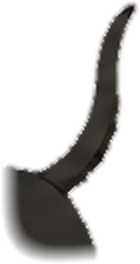
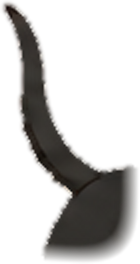
Sprite pack built by one script (tools/pups2/pack/build.py): clean muzzles, layers for right, left and 3/4 views, eyes and mouths, upscale, then the 3/4 mirror, so a rebuild can never lose the facing again
Claude-Session: https://claude.ai/code/session_01F11x81sfGg3qnfmPYFW4i1

diff --git a/tools/pups2/pack/srig.py b/tools/pups2/pack/srig.py
@@ -1,0 +1,145 @@
+"""Warp rig for the turnaround-sheet sprites: head, tail and legs get weight maps; a pose rotates each by its weight,
+so joints bend smoothly. Also a head swap for the expression faces."""
+import cv2, numpy as np, math
+S = '/home/user/Spread-Love-And-Acceptance/tools/pups2/ref/sheet/'
+PAD = 60
+
+def poly_w(shape, pts, feather):
+    m = np.zeros(shape[:2], np.uint8); cv2.fillPoly(m, [np.array(pts, np.int32)], 255)
+    return cv2.GaussianBlur(m.astype(np.float32) / 255, (0, 0), feather)
+
+class Sprite:
+    def __init__(self, name, parts, face=None, cutlegs=None):
+        im = cv2.imread(S + name + '.png', cv2.IMREAD_UNCHANGED)
+        self.img = cv2.copyMakeBorder(im, PAD, PAD, PAD, PAD, cv2.BORDER_CONSTANT, value=(0, 0, 0, 0)).astype(np.float32)
+        self.H, self.W = self.img.shape[:2]; self.base_h = im.shape[0]
+        self.w = {}; self.pv = {}
+        for p, (pts, pivot, feather) in parts.items():
+            self.w[p] = poly_w(self.img.shape, [(x + PAD, y + PAD) for x, y in pts], feather)
+            self.pv[p] = (pivot[0] + PAD, pivot[1] + PAD)
+        self.face = face   # (cx, cy, width) of the head on this body, for expression swaps
+        self.cutlegs = cutlegs   # (belly_y, {leg: (x0, x1, pivot_y)}) for side views: legs swing as cut layers
+        yy, xx = np.mgrid[0:self.H, 0:self.W].astype(np.float32); self.yy, self.xx = yy, xx
+    def pose(self, rot=None, shift=None):
+        rot = rot or {}; shift = shift or {}
+        sx, sy = self.xx.copy(), self.yy.copy()
+        for p in set(rot) | set(shift):
+            if p not in self.w: continue
+            w = self.w[p]; px, py = self.pv[p]; th = math.radians(rot.get(p, 0)) * w; dx, dy = shift.get(p, (0, 0))
+            cx, cy = sx - px - dx * w, sy - py - dy * w; c, s_ = np.cos(th), np.sin(th)
+            sx, sy = px + c * cx - s_ * cy, py + s_ * cx + c * cy
+        im = cv2.remap(self.img, sx, sy, cv2.INTER_LINEAR, borderMode=cv2.BORDER_CONSTANT, borderValue=(0, 0, 0, 0))
+        if not self.cutlegs: return im
+        belly, legs = self.cutlegs; belly += PAD
+        yy, xx = self.yy, self.xx
+        torso = im.copy(); span = (xx > 25 + PAD) & (xx < self.W - 25 - PAD)
+        torso[..., 3] *= np.where(span, np.clip((belly + 6 - yy) / 6, 0, 1), 1)
+        out = np.zeros_like(im)
+        def over(dst, src):
+            a = src[..., 3:4] / 255; dst[..., :3] = src[..., :3] * a + dst[..., :3] * (1 - a); dst[..., 3:4] = src[..., 3:4] + dst[..., 3:4] * (1 - a)
+        order = ['bl2', 'fl2', 'torso', 'bl1', 'fl1']
+        for p in order:
+            if p == 'torso': over(out, torso); continue
+            pts, (px, py) = legs[p]; px += PAD; py += PAD
+            m = poly_w(im.shape, [(x + PAD, y + PAD) for x, y in pts], 1.2) * np.clip((yy - (belly - 22)) / 16, 0, 1)
+            leg = im.copy(); leg[..., 3] *= m
+            ang = rot.get(p, 0)
+            if ang:
+                M = cv2.getRotationMatrix2D((px, py), ang, 1)
+                leg = cv2.warpAffine(leg, M, (self.W, self.H), flags=cv2.INTER_LINEAR, borderValue=(0, 0, 0, 0))
+            over(out, leg)
+        return out
+
+FACES = {}
+def face(name):
+    if name not in FACES:
+        im = cv2.imread(S + name + '.png', cv2.IMREAD_UNCHANGED).astype(np.float32)
+        dark = ((im[..., :3].max(axis=2) < 90) & (im[..., 3] > 0)).astype(np.uint8)
+        for y in range(im.shape[0] - 1, im.shape[0] - 30, -1):          # a long straight dark run near the bottom is the phone's bar
+            runs = np.diff(np.concatenate([[0], dark[y], [0]])); starts = np.where(runs == 1)[0]; ends = np.where(runs == -1)[0]
+            if len(starts) and (ends - starts).max() > im.shape[1] * .5: im[y - 2:, :, 3] = 0; break
+        FACES[name] = im
+    return FACES[name]
+
+LEGS4 = lambda f1, f2, b1, b2, ytop, ybot, py: {
+    'fl1': ([(f1[0], ytop), (f1[1], ytop), (f1[1], ybot), (f1[0], ybot)], ((f1[0] + f1[1]) / 2, py), 9),
+    'fl2': ([(f2[0], ytop), (f2[1], ytop), (f2[1], ybot), (f2[0], ybot)], ((f2[0] + f2[1]) / 2, py), 9),
+    'bl1': ([(b1[0], ytop), (b1[1], ytop), (b1[1], ybot), (b1[0], ybot)], ((b1[0] + b1[1]) / 2, py), 9),
+    'bl2': ([(b2[0], ytop), (b2[1], ytop), (b2[1], ybot), (b2[0], ybot)], ((b2[0] + b2[1]) / 2, py), 9)}
+
+RIGS = {
+    'tb-right': dict(parts={'head': ([(190, -60), (400, -60), (400, 160), (250, 175), (205, 165), (185, 120)], (215, 130), 18),
+                            'tail': ([(-60, -60), (120, -60), (120, 140), (-60, 160)], (105, 125), 12)},
+                     cutlegs=(166, {'fl1': ([(194, 140), (250, 140), (272, 260), (180, 260)], (222, 152)), 'fl2': ([(248, 140), (308, 140), (278, 226), (250, 226)], (276, 152)),
+                                    'bl1': ([(62, 140), (120, 140), (98, 260), (45, 260)], (90, 155)), 'bl2': ([(16, 140), (68, 140), (45, 260), (-6, 260)], (42, 155))})),
+    'sf-right': dict(parts={'head': ([(185, -60), (400, -60), (400, 205), (255, 215), (205, 190), (180, 130)], (215, 150), 20),
+                            'tail': ([(-60, -60), (128, -60), (128, 150), (-60, 170)], (110, 135), 12)},
+                     cutlegs=(192, {'fl1': ([(196, 170), (252, 170), (262, 260), (176, 260)], (224, 180)), 'fl2': ([(250, 170), (312, 170), (282, 228), (254, 228)], (280, 180)),
+                                    'bl1': ([(70, 170), (132, 170), (116, 260), (70, 260)], (100, 182)), 'bl2': ([(30, 170), (82, 170), (72, 260), (26, 260)], (56, 182))})),
+    'tb-34front': dict(parts={'head': ([(-60, -60), (190, -60), (190, 140), (140, 200), (60, 200), (-60, 150)], (105, 160), 18),
+                              'tail': ([(150, -60), (300, -60), (300, 120), (150, 130)], (160, 120), 12),
+                              **LEGS4((85, 132), (132, 180), (8, 85), (180, 260), 195, 340, 202)}, face=(104, 96, 178)),
+    'sf-34front': dict(parts={'head': ([(-60, -60), (200, -60), (200, 150), (150, 210), (60, 215), (-60, 160)], (110, 170), 20),
+                              'tail': ([(175, -60), (320, -60), (320, 130), (175, 150)], (185, 120), 12),
+                              **LEGS4((70, 130), (130, 190), (10, 70), (190, 300), 200, 340, 206)}, face=(112, 104, 205)),
+    'tb-front': dict(parts={'head': ([(-60, -60), (210, -60), (210, 120), (120, 150), (30, 150), (-60, 120)], (75, 130), 16),
+                            'fl1': ([(10, 190), (75, 190), (75, 320), (10, 320)], (45, 196), 9), 'fl2': ([(75, 190), (140, 190), (140, 320), (75, 320)], (105, 196), 9)}, face=(75, 74, 160)),
+    'sf-front': dict(parts={'head': ([(-60, -60), (240, -60), (240, 130), (140, 170), (35, 170), (-60, 130)], (86, 150), 18),
+                            'fl1': ([(20, 200), (86, 200), (86, 320), (20, 320)], (55, 205), 9), 'fl2': ([(86, 200), (155, 200), (155, 320), (86, 320)], (118, 205), 9)}, face=(86, 90, 190)),
+}
+SP = {}
+def sprite(name):
+    if name not in SP: SP[name] = Sprite(name, **RIGS[name])
+    return SP[name]
+
+def render(name, height, rot=None, shift=None, flip=False, lean=0, expr=None, squash=(1, 1)):
+    """returns premultiplied RGBA float; expr = face sprite name to swap onto the head"""
+    sp = sprite(name); im = sp.pose(rot, shift)
+    if expr and sp.face:
+        fx, fy, fw = sp.face; f = face(expr); s = fw / f.shape[1]
+        f = cv2.resize(f, None, fx=s, fy=s, interpolation=cv2.INTER_AREA)
+        # the head also turned by the head rotation / shift: follow it
+        hr = math.radians((rot or {}).get('head', 0)); dx, dy = (shift or {}).get('head', (0, 0))
+        px, py = sp.pv['head']; cx, cy = fx + PAD, fy + PAD
+        rx = px + (cx - px) * math.cos(hr) - (cy - py) * math.sin(hr) + dx; ry = py + (cx - px) * math.sin(hr) + (cy - py) * math.cos(hr) + dy
+        if hr:
+            h, w = f.shape[:2]; M = cv2.getRotationMatrix2D((w / 2, h / 2), -math.degrees(hr), 1)
+            f = cv2.warpAffine(f, M, (w, h), flags=cv2.INTER_LINEAR, borderValue=(0, 0, 0, 0))
+        h, w = f.shape[:2]; x0, y0 = int(rx - w / 2), int(ry - h / 2)
+        erase = np.clip((sp.w['head'] - .45) / .15, 0, 1) * np.clip((y0 + h - 34 - sp.yy) / 12, 0, 1)   # painted head off, fading in above the face's chin
+        im[..., 3] *= (1 - erase)
+        f = f.copy(); f[..., 3] *= np.clip((h - 1 - np.arange(h)) / 28.0, 0, 1)[:, None]                  # the face's flat bottom fades into the chest
+        X0, Y0, X1, Y1 = max(0, x0), max(0, y0), min(sp.W, x0 + w), min(sp.H, y0 + h)
+        ff = f[Y0 - y0:Y1 - y0, X0 - x0:X1 - x0]; a = ff[..., 3:4] / 255
+        im[Y0:Y1, X0:X1, :3] = ff[..., :3] * a + im[Y0:Y1, X0:X1, :3] * (1 - a)
+        im[Y0:Y1, X0:X1, 3:4] = ff[..., 3:4] + im[Y0:Y1, X0:X1, 3:4] * (1 - a)
+    a = im[..., 3:4] / 255; pm = np.dstack([im[..., :3] * a, im[..., 3:4]])
+    s = height / sp.base_h
+    pm = cv2.resize(pm, None, fx=s * squash[0], fy=s * squash[1], interpolation=cv2.INTER_AREA if s < 1 else cv2.INTER_CUBIC)
+    if flip: pm = cv2.flip(pm, 1)
+    if lean:
+        h, w = pm.shape[:2]; M = cv2.getRotationMatrix2D((w / 2, h - PAD * s), lean, 1)
+        pm = cv2.warpAffine(pm, M, (w, h), flags=cv2.INTER_LINEAR, borderValue=(0, 0, 0, 0))
+    return pm, PAD * s * squash[1]      # the bottom padding, so callers can place feet on the ground
+
+def blit(c, pm, cx, by, pad=0):
+    h, w = pm.shape[:2]; x, y = int(round(cx - w / 2)), int(round(by - h + pad)); H, W = c.shape[:2]
+    x0, y0, x1, y1 = max(0, x), max(0, y), min(W, x + w), min(H, y + h)
+    if x1 <= x0 or y1 <= y0: return
+    sp = pm[y0 - y:y1 - y, x0 - x:x1 - x]; a = sp[..., 3:4] / 255
+    c[y0:y1, x0:x1] = np.clip(sp[..., :3] + c[y0:y1, x0:x1] * (1 - a), 0, 255).astype(np.uint8)
+
+def shadow(c, cx, by, w, k=1.0):
+    ov = c.copy(); cv2.ellipse(ov, (int(cx), int(by) - 3), (int(w * k), 9), 0, 0, 360, (40, 30, 20), -1); cv2.addWeighted(ov, .18 * k, c, 1 - .18 * k, 0, c)
+
+if __name__ == '__main__':
+    tests = [('tb-right', dict(rot={'fl1': 22, 'fl2': -22, 'bl1': -22, 'bl2': 22, 'tail': 15, 'head': -5})),
+             ('sf-right', dict(rot={'fl1': 22, 'fl2': -22, 'bl1': -22, 'bl2': 22, 'tail': -15, 'head': 5})),
+             ('tb-34front', dict(expr='tb-happy', rot={'head': 6})), ('sf-34front', dict(expr='sf-surprised')),
+             ('tb-front', dict(expr='tb-surprised', rot={'head': -8})), ('sf-front', dict(expr='sf-happy', rot={'head': 8}))]
+    tiles = []
+    for n, kw in tests:
+        pm, pad = render(n, 300, **kw); bg = np.full((pm.shape[0], pm.shape[1], 3), (235, 240, 245), np.float32)
+        a = pm[..., 3:4] / 255; im = (pm[..., :3] + bg * (1 - a)).astype(np.uint8)
+        tiles.append(cv2.copyMakeBorder(im, 0, max(0, 460 - im.shape[0]), 0, 10, cv2.BORDER_CONSTANT, value=(255, 255, 255))[:460])
+    cv2.imwrite('srig-test.png', cv2.hconcat(tiles)); print('ok')

diff --git a/tools/pups2/pack/build.py b/tools/pups2/pack/build.py
@@ -1,0 +1,73 @@
+"""Builds assets/img/pups from the turnaround sheet cut-outs (tools/pups2/ref/sheet) in one consistent pass:
+clean muzzles, layers (legs, tail, head, body) for the right, left and 3/4 front views, eyes and mouth anchors, 2x upscale,
+then the 3/4 front mirror. Run: python3 tools/pups2/pack/build.py"""
+import cv2, numpy as np, os, json, sys, shutil, subprocess
+HERE = os.path.dirname(os.path.abspath(__file__)); ROOT = os.path.abspath(os.path.join(HERE, '..', '..', '..'))
+sys.path.insert(0, HERE); import srig
+SHEET = os.path.join(ROOT, 'tools', 'pups2', 'ref', 'sheet') + os.sep; WORK = os.path.join(HERE, 'work') + os.sep; OUT = os.path.join(ROOT, 'assets', 'img', 'pups') + os.sep
+os.makedirs(WORK, exist_ok=True); os.makedirs(OUT, exist_ok=True); srig.S = SHEET; PAD = srig.PAD
+
+def clean_mouth(name, zone, only_dark=True):
+    im = cv2.imread(SHEET + name + '.png', cv2.IMREAD_UNCHANGED); bgr = im[..., :3].copy(); a = im[..., 3]
+    hsv = cv2.cvtColor(bgr, cv2.COLOR_BGR2HSV); V = hsv[..., 2].astype(int); Sx = hsv[..., 1].astype(int); H = hsv[..., 0].astype(int)
+    z = np.zeros(a.shape, np.uint8); cv2.ellipse(z, zone[:2], zone[2:], 0, 0, 360, 1, -1)
+    if only_dark:
+        m = (((V < 95) | (((H < 14) | (H > 158)) & (Sx > 50) & (V > 110))) & (z > 0) & (a > 10)).astype(np.uint8)
+        m = cv2.dilate(cv2.morphologyEx(m, cv2.MORPH_CLOSE, np.ones((5, 5), np.uint8)), np.ones((3, 3), np.uint8)); out = cv2.inpaint(bgr, m * 255, 9, cv2.INPAINT_NS)
+        mk = cv2.GaussianBlur(cv2.dilate(m, np.ones((5, 5), np.uint8)).astype(np.float32), (0, 0), 2.5)[..., None]; out = (out * (1 - mk) + cv2.GaussianBlur(out, (0, 0), 1.6) * mk).astype(np.uint8)
+    else:
+        m = (z & (a > 10)).astype(np.uint8); ring = (cv2.dilate(m, np.ones((9, 9), np.uint8)) - m) > 0; cream = np.median(bgr[ring & (V > 150)], axis=0)
+        fill = bgr.copy(); fill[m > 0] = cream; fill = cv2.GaussianBlur(fill, (0, 0), 1.2).astype(np.float32) + (np.random.RandomState(1).randn(*a.shape, 1) * 4).astype(np.float32)
+        mk = cv2.GaussianBlur(m.astype(np.float32), (0, 0), 2.5)[..., None]; out = np.clip(bgr * (1 - mk) + fill * mk, 0, 255).astype(np.uint8)
+    cv2.imwrite(WORK + name + '.png', np.dstack([out, a]))
+# the painted open mouths come off (the engine draws the mouth); Tidbit's side views keep their closed smile
+clean_mouth('sf-right', (284, 84, 29, 21), only_dark=False)
+for n, z in (('tb-34front', (88, 100, 26, 10)), ('sf-34front', (96, 92, 34, 20)), ('tb-front', (75, 87, 20, 9)), ('sf-front', (86, 84, 34, 19))): clean_mouth(n, z)
+for n in ('tb-right', 'tb-left', 'sf-left'): shutil.copy(SHEET + n + '.png', WORK + n + '.png')
+# left views get the right views' rig, mirrored and scaled to their own size
+def mirror_rig(src, dst):
+    ws = cv2.imread(SHEET + src + '.png', cv2.IMREAD_UNCHANGED).shape; wd = cv2.imread(SHEET + dst + '.png', cv2.IMREAD_UNCHANGED).shape
+    sx, sy = wd[1] / ws[1], wd[0] / ws[0]; X = lambda x: (ws[1] - x) * sx; Y = lambda y: y * sy; r = srig.RIGS[src]
+    parts = {p: ([(X(x), Y(y)) for x, y in pts], (X(pv[0]), Y(pv[1])), fe) for p, (pts, pv, fe) in r['parts'].items()}
+    belly, legs = r['cutlegs']; srig.RIGS[dst] = dict(parts=parts, cutlegs=(Y(belly), {p: ([(X(x), Y(y)) for x, y in pts], (X(pv[0]), Y(pv[1]))) for p, (pts, pv) in legs.items()})); return sx, sy
+SC = {'tb-left': mirror_rig('tb-right', 'tb-left'), 'sf-left': mirror_rig('sf-right', 'sf-left')}
+srig.S = WORK; srig.SP.clear()
+def up2(im):
+    im = im.astype(np.float32); a = im[..., 3:4] / 255.0; solid = (a[..., 0] > 0.6).astype(np.uint8); col = im[..., :3].copy()
+    for _ in range(3):
+        d = cv2.dilate(solid, np.ones((3, 3), np.uint8)); rg = (d > 0) & (solid == 0)
+        blur = cv2.blur(col * solid[..., None], (3, 3)) / np.maximum(cv2.blur(solid.astype(np.float32), (3, 3)), 1e-3)[..., None]; col[rg] = blur[rg]; solid = d
+    colu = cv2.resize(col, None, fx=2, fy=2, interpolation=cv2.INTER_CUBIC); au = cv2.GaussianBlur(cv2.resize(im[..., 3], None, fx=2, fy=2, interpolation=cv2.INTER_CUBIC), (0, 0), 0.7)
+    return np.dstack([np.clip(colu, 0, 255), np.clip(au, 0, 255)]).astype(np.uint8)
+for f in os.listdir(OUT): os.remove(OUT + f)
+meta = {}
+def save(name, im):
+    a = im[..., 3]; ys, xs = np.where(a > 1); y0, y1, x0, x1 = ys.min(), ys.max() + 1, xs.min(), xs.max() + 1
+    cv2.imwrite(OUT + name + '.png', up2(np.clip(im[y0:y1, x0:x1], 0, 255))); return dict(x=int(x0 - PAD), y=int(y0 - PAD), w=int(x1 - x0), h=int(y1 - y0))
+MOUTH = {'tb-right': (288, 76, 15, 1, True), 'sf-right': (276, 85, 20, 1, False), 'tb-34front': (88, 99, 20, .3, False), 'sf-34front': (96, 93, 26, .2, False), 'tb-front': (75, 87, 14, 0, False), 'sf-front': (86, 84, 26, 0, False)}
+EYES = {'tb-right': [(277, 43, 8)], 'sf-right': [(268, 41, 9)], 'tb-34front': [(62, 62, 9), (104, 58, 9)], 'sf-34front': [(62, 66, 11), (104, 56, 11)], 'tb-front': [(55, 48, 9), (95, 48, 9)], 'sf-front': [(62, 52, 11), (110, 52, 11)]}
+for name in list(MOUTH) + ['tb-left', 'sf-left']:
+    sp = srig.sprite(name); im = sp.img; yy, xx = sp.yy, sp.xx; rest = im.copy(); W = sp.W
+    m = dict(w=int(W - 2 * PAD), h=int(sp.base_h), scale=2, layers={}, order=[])
+    if sp.cutlegs:
+        belly, legs = sp.cutlegs; belly += PAD; span = (xx > 25 + PAD) & (xx < W - 25 - PAD)
+        for p in ('bl2', 'fl2', 'bl1', 'fl1'):
+            pts, (px, py) = legs[p]; mk = srig.poly_w(im.shape, [(x + PAD, y + PAD) for x, y in pts], 1.2) * np.clip((yy - (belly - 22)) / 16, 0, 1)
+            L = im.copy(); L[..., 3] *= mk; r = save(name + '-' + p, L); r.update(px=int(px), py=int(py)); m['layers'][p] = r
+        rest[..., 3] *= np.where(span, np.clip((belly + 6 - yy) / 6, 0, 1), 1)
+    for p in ('tail', 'head'):
+        if p not in sp.w: continue
+        w = np.clip((sp.w[p] - .35) / .3, 0, 1); L = im.copy(); L[..., 3] *= w; r = save(name + '-' + p, L); r.update(px=int(sp.pv[p][0] - PAD), py=int(sp.pv[p][1] - PAD)); m['layers'][p] = r
+        rest[..., 3] *= (1 - np.clip((sp.w[p] - .55) / .12, 0, 1))   # the body loses what the moving layer covers
+    m['layers']['body'] = save(name + '-body', rest); m['order'] = [p for p in ('bl2', 'fl2', 'tail', 'body', 'bl1', 'fl1', 'head') if p in m['layers']]
+    if name in MOUTH:
+        mx, my, hw, side, painted = MOUTH[name]; m['mouth'] = dict(x=mx, y=my, hw=hw, side=side, painted=painted); m['eyes'] = [list(e) for e in EYES[name]]
+    else:
+        src = name.replace('left', 'right'); sx, sy = SC[name]; wsrc = meta[src]['w']; mo = meta[src]['mouth']
+        m['mouth'] = dict(x=int((wsrc - mo['x']) * sx), y=int(mo['y'] * sy), hw=int(mo['hw'] * sx), side=-1, painted=True); m['eyes'] = [[int((wsrc - x) * sx), int(y * sy), int(r * sx)] for x, y, r in meta[src]['eyes']]; m['faces'] = 'left'
+    meta[name] = m
+for name in ('tb-back', 'sf-back', 'tb-34back', 'sf-34back'):
+    im = cv2.imread(SHEET + name + '.png', cv2.IMREAD_UNCHANGED); cv2.imwrite(OUT + name + '-body.png', up2(im))
+    meta[name] = dict(w=int(im.shape[1]), h=int(im.shape[0]), scale=2, layers={'body': dict(x=0, y=0, w=int(im.shape[1]), h=int(im.shape[0]))}, order=['body'])
+json.dump(meta, open(OUT + 'meta.json', 'w'))
+subprocess.check_call([sys.executable, os.path.join(HERE, 'flip34.py')]); print('pack built:', len(os.listdir(OUT)), 'files')
